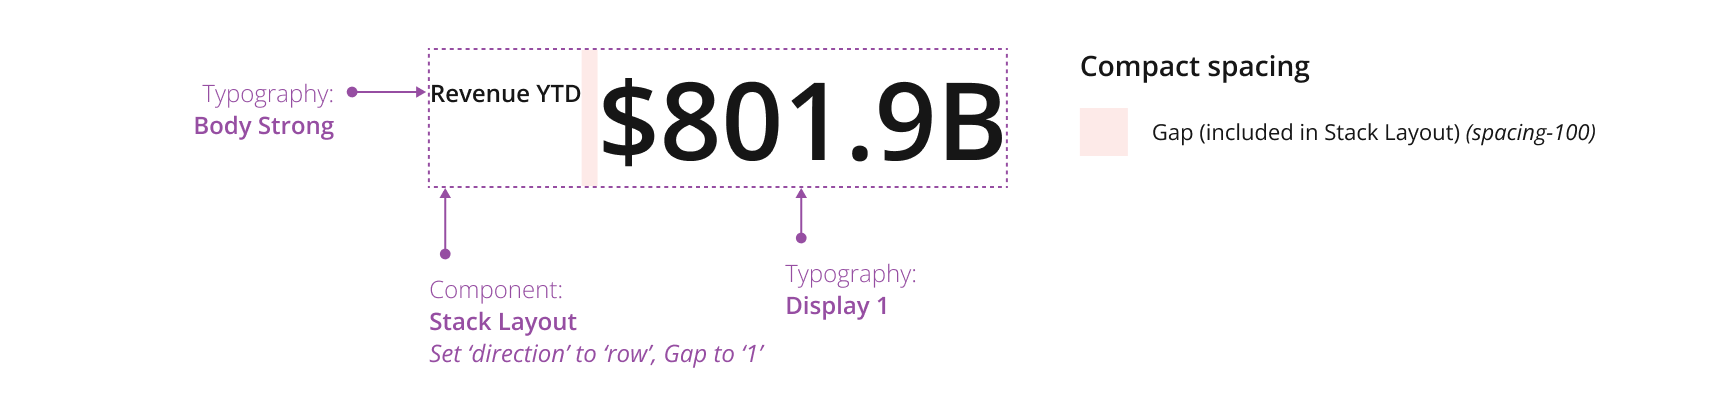
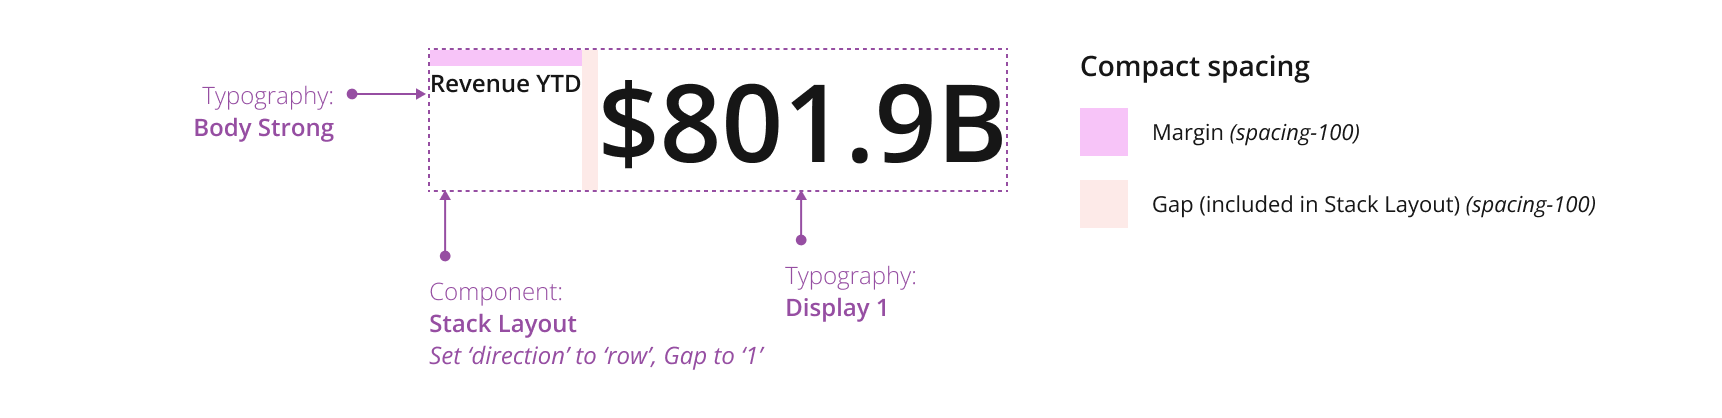
update horizontal example

diff --git a/packages/core/stories/patterns/metric/metric.stories.tsx b/packages/core/stories/patterns/metric/metric.stories.tsx
@@ -27,10 +27,10 @@ export const Metric = () => {
 export const HorizontalMetric = () => {
   return (
     <StackLayout direction="row" gap={1}>
-      <Text>
+      <Text style={{ marginTop: "var(--salt-spacing-100)" }}>
         <strong>Revenue YTD</strong>
       </Text>
-      <Display1 style={{ lineHeight: "0.8" }}>$801.9B</Display1>
+      <Display1>$801.9B</Display1>
     </StackLayout>
   );
 };
